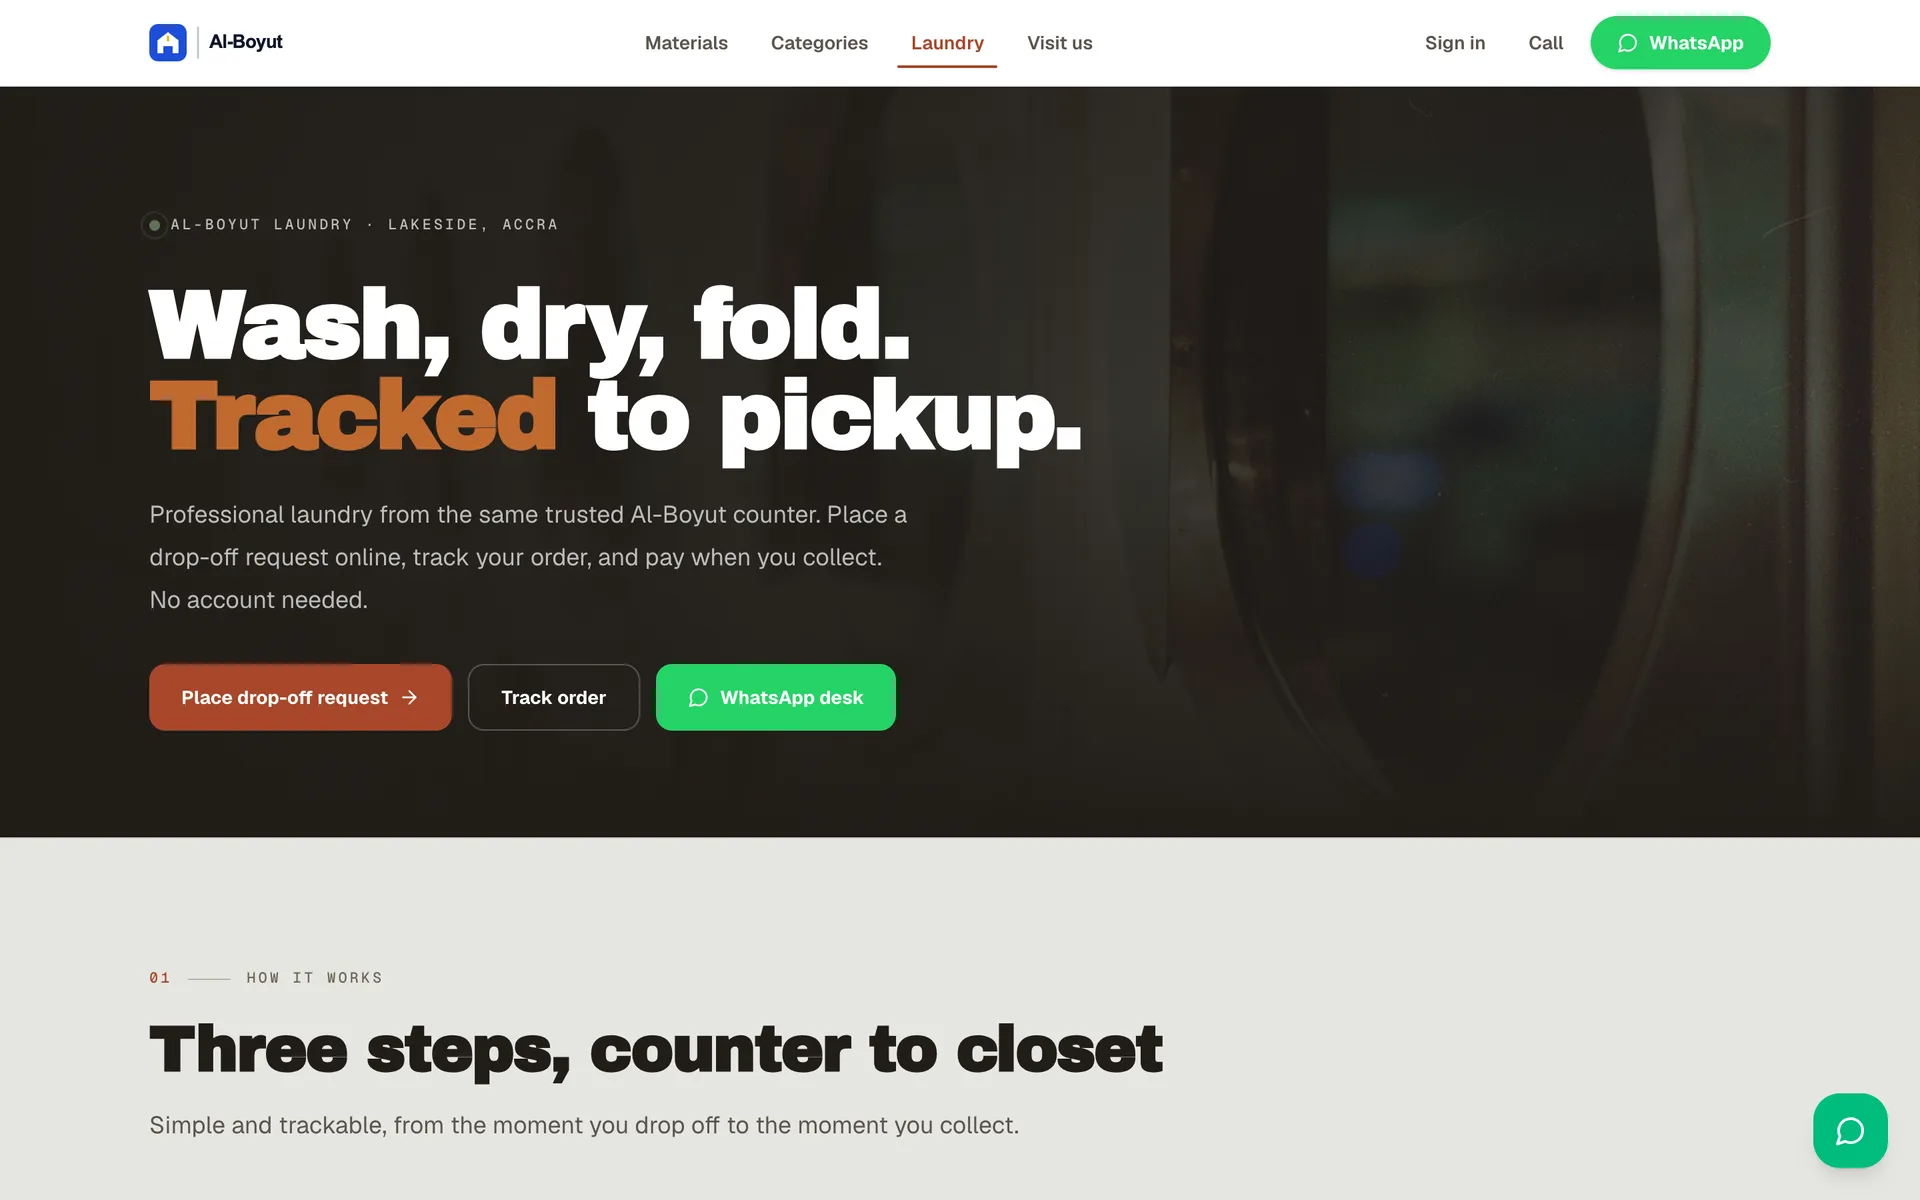
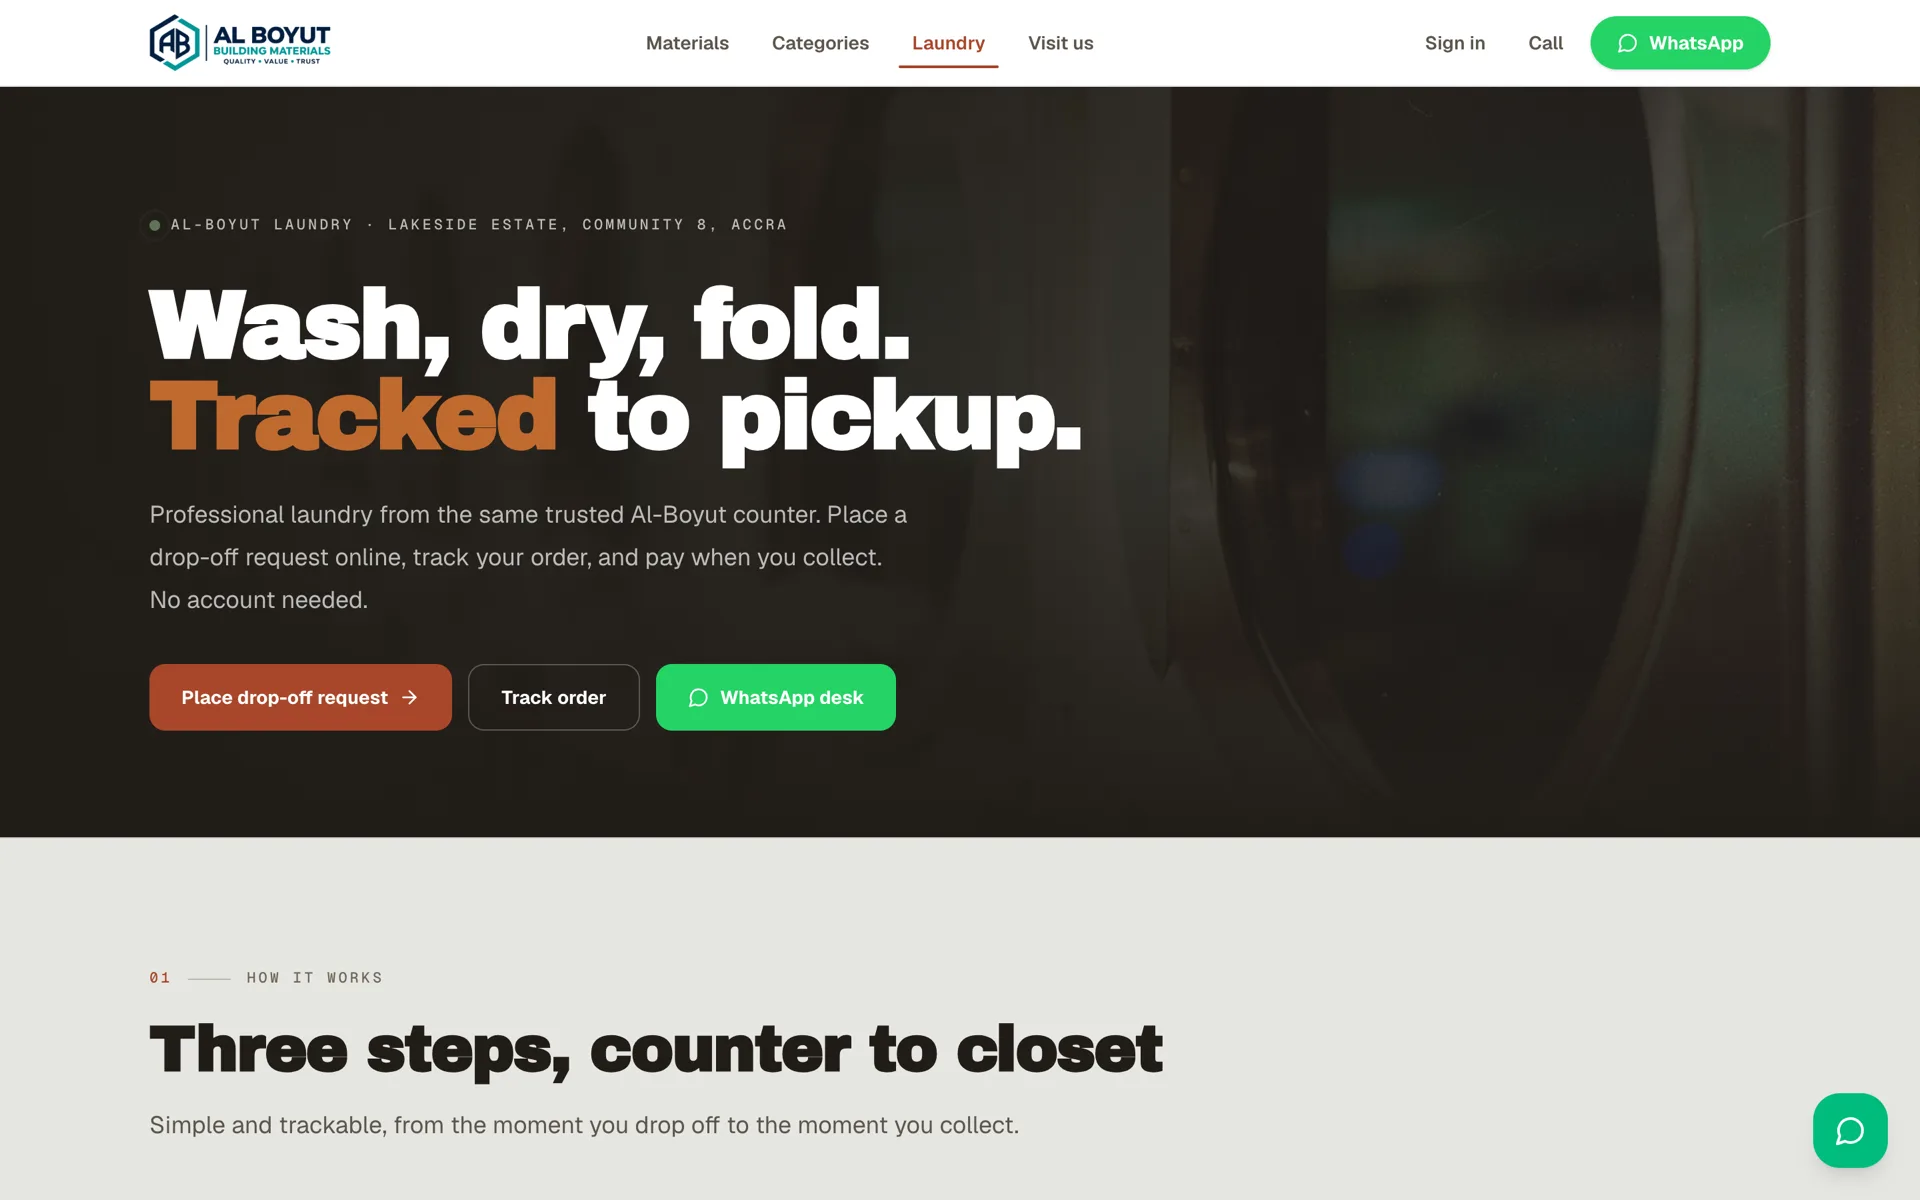
Promote Al-Boyut to a live, featured case study
Al-Boyut is live at alboyut.com, so unhide it, feature it, and point the
entry at the real domain instead of the testing deploy.

- Recapture storefront, catalogue, laundry and contact from the live site
  (1920w WebP); real shots now win over the coded AlBoyutPreview mockup.
- Rewrite the entry around the delivered scope: logo and identity system,
  storefront with a 450+ item catalogue and WhatsApp-first ordering, the
  admin/POS/supplier/laundry-ops surfaces, and a created + verified Google
  Business Profile. Adds a Challenge/Approach/Result study, metrics, and
  FR/AR tagline + description.
- Correct the accent to the terracotta actually shipping (#B4552F).
- Add Project.liveEmbeddable: alboyut.com sends X-Frame-Options: DENY, so
  the embedded Live tab would be blank. CaseStudy hides the toggle and
  iframe when it is false, keeping the "Visit the live site" link.
- Add the alboyut URL map to BrowserMockup.

diff --git a/src/lib/projects.ts b/src/lib/projects.ts
@@ -96,6 +96,8 @@ export interface Project {
   liveBaseUrl?: string;
   /** Map screen id → path (e.g. landing → "/", courses → "/courses"). Used with liveBaseUrl. */
   liveScreenPaths?: Record<string, string>;
+  /** Set false when the deploy sends X-Frame-Options/frame-ancestors DENY — hides the Live tab, keeps the outbound link. */
+  liveEmbeddable?: boolean;
 }
 
 export function projectSlug(p: Project): string {
@@ -302,48 +304,78 @@ export const projects: Project[] = [
     id: "alboyut",
     slug: "al-boyut",
     name: "Al-Boyut",
-    tagline: "Building Materials & Laundry Counter Platform",
+    tagline: "Builder's Merchant & Laundry — Brand, Site and Operations",
+    taglineFr: "Négoce de matériaux et blanchisserie — marque, site et opérations",
+    taglineAr: "تاجر مواد بناء ومغسلة — الهوية والموقع والتشغيل",
     year: "2026",
-    location: "Accra · Ghana",
+    location: "Lakeside Estate, Accra · Ghana",
     services: [
-      "Brand identity",
-      "Commerce design",
-      "POS & back office",
+      "Brand identity & logo system",
+      "Storefront & commerce design",
+      "POS, admin & laundry operations",
+      "Google Business Profile & local discovery",
       "Full-stack engineering",
     ],
     description:
-      "Storefront and operations platform for an Accra building-materials merchant with a laundry counter. WhatsApp-first ordering with counter pickup and delivery, a role-based back office, POS, supplier portal and laundry operations — carried by a laterite-and-steel identity rooted in Accra's red earth.",
-    role: "Product, brand & full-stack engineering",
+      "Everything customer-facing for an Accra builder's merchant that also runs a laundry counter: the logo and identity system, the live storefront at alboyut.com with a 450+ item catalogue and WhatsApp-first ordering, the staff POS, admin and laundry job board behind it, and a verified Google Business Profile that finally put the shop on Maps.",
+    descriptionFr:
+      "Tout le visible pour un négoce de matériaux d'Accra qui tient aussi une blanchisserie : le logo et le système d'identité, la boutique en ligne alboyut.com avec un catalogue de 450+ références et la commande par WhatsApp, la caisse, l'administration et le tableau de bord blanchisserie côté équipe, plus une fiche Google Business vérifiée qui met enfin la boutique sur Maps.",
+    descriptionAr:
+      "كل ما يراه العميل لتاجر مواد بناء في أكرا يدير أيضًا مغسلة: الشعار ونظام الهوية، والمتجر المباشر على alboyut.com بكتالوج يضم أكثر من 450 صنفًا وطلب عبر واتساب، ونقطة البيع والإدارة ولوحة تشغيل المغسلة للموظفين، إضافة إلى ملف تجاري موثّق على Google وضع المحل أخيرًا على الخرائط.",
+    study: {
+      challenge:
+        "Al-Boyut sold pipes, cement, roofing and tools over a counter on Lakeside Estate — and washed clothes at the same counter — with no logo, no website, and no Google Business Profile. Customers who searched for it found nothing on Maps, prices lived in WhatsApp threads, and the two businesses shared one till but no shared record.",
+      approach:
+        "We started with the identity: a hexagonal AB mark, wordmark and lockup set with reverse, mono and receipt variants, plus a written design system and brand voice so signage, receipts and screens speak the same language. That identity then carried a Next.js storefront — 450+ item catalogue, search and filters, 'Ask for price' via WhatsApp, counter pickup or Accra delivery — and the staff side behind it: admin, POS, supplier portal, and a laundry job board running RECEIVED → washing → drying → finishing → quality check → READY, where nothing is released with a balance owing. In parallel we claimed and verified the Google Business Profile, choosing truthful categories and holding name, address and phone identical to the site.",
+      result:
+        "One brand and one system across both businesses: a live site at alboyut.com, five working surfaces on a single Postgres source of truth, and a verified Business Profile so people searching for building materials on Lakeside Estate actually find the shop.",
+      metrics: [
+        { value: "450+", label: "Catalogue items live" },
+        { value: "5", label: "Operational surfaces" },
+        { value: "2", label: "Businesses, one system" },
+        { value: "Verified", label: "Google Business Profile" },
+      ],
+    },
+    role: "Brand, product & full-stack engineering",
     impact: [
-      "Gave a template-cloned storefront its own hard-wearing 'builder's merchant' identity — flat, committed, WCAG AA verified.",
-      "Modelled WhatsApp ordering, counter pickup and delivery around how Accra customers actually buy materials.",
-      "Built admin, POS, supplier and laundry-ops surfaces on one Drizzle/Postgres source of truth.",
+      "Designed the logo and identity system — mark, wordmark, lockups, reverse and receipt variants — plus a written design system and brand voice.",
+      "Built the live storefront at alboyut.com: 450+ item catalogue, search and filters, WhatsApp-first ordering, counter pickup or delivery.",
+      "Built admin, POS, supplier portal and a laundry job board on one Drizzle/Postgres source of truth — QC before release, no clothes leave with a balance owing.",
+      "Created and verified the Google Business Profile, with categories and NAP details held identical to the site.",
     ],
     outcomes: [
+      { value: "450+", label: "Catalogue items live" },
       { value: "5", label: "Operational surfaces" },
-      { value: "2", label: "Businesses, one system" },
-      { value: "AA", label: "Contrast verified" },
+      { value: "Verified", label: "Google Business Profile" },
     ],
     category: "ecommerce",
-    categoryLabel: "E-Commerce · Operations",
+    categoryLabel: "E-Commerce · Brand & Operations",
     stack: ["Next.js", "TypeScript", "Drizzle", "PostgreSQL", "Better Auth", "Vercel Blob"],
-    accentColor: "#A8462A",
-    accentGlow: "rgba(168, 70, 42, 0.16)",
-    featured: false,
-    hidden: true,
+    accentColor: "#B4552F",
+    accentGlow: "rgba(180, 85, 47, 0.16)",
+    featured: true,
     imagePath: "/previews/alboyut/landing.webp",
     screens: [
       { id: "landing", label: "Storefront" },
-      { id: "products", label: "Products" },
+      { id: "products", label: "Catalogue" },
       { id: "laundry", label: "Laundry" },
+      { id: "contact", label: "Visit us" },
     ],
     screenImages: {
       landing: "/previews/alboyut/landing.webp",
       products: "/previews/alboyut/products.webp",
       laundry: "/previews/alboyut/laundry.webp",
+      contact: "/previews/alboyut/contact.webp",
     },
-    liveBaseUrl: "https://testing-al-boyut.vercel.app",
-    liveScreenPaths: { landing: "/", products: "/products", laundry: "/laundry" },
+    liveBaseUrl: "https://alboyut.com",
+    liveScreenPaths: {
+      landing: "/",
+      products: "/products",
+      laundry: "/laundry",
+      contact: "/contact",
+    },
+    // alboyut.com sends X-Frame-Options: DENY — the embedded live tab would be blank.
+    liveEmbeddable: false,
   },
   {
     id: "enterprise-erp",

diff --git a/src/app/work/[slug]/CaseStudy.tsx b/src/app/work/[slug]/CaseStudy.tsx
@@ -33,6 +33,8 @@ export default function CaseStudy({ project, next }: Props) {
   const locale = useLocale();
   const { tagline, description } = localizedProject(project, locale);
   const [mode, setMode] = useState<Mode>("simulated");
+  /** Some deploys send X-Frame-Options: DENY — no live tab, outbound link only. */
+  const canEmbedLive = !!project.liveBaseUrl && project.liveEmbeddable !== false;
 
   return (
     <>
@@ -122,7 +124,7 @@ export default function CaseStudy({ project, next }: Props) {
           <div className="max-w-[1280px] mx-auto">
             {/* Mode toggle */}
             <div className="flex items-center justify-between gap-4 flex-wrap mb-4">
-              {project.liveBaseUrl ? (
+              {canEmbedLive ? (
                 <div
                   className="inline-flex p-1 rounded-full border border-[var(--line)]"
                   style={{ background: "rgba(255,255,255,0.02)" }}
@@ -148,7 +150,7 @@ export default function CaseStudy({ project, next }: Props) {
                 </span>
               )}
 
-              {mode === "live" && project.liveBaseUrl && (
+              {mode === "live" && canEmbedLive && (
                 <a
                   href={buildLiveUrl(project, screen)}
                   target="_blank"
@@ -164,7 +166,7 @@ export default function CaseStudy({ project, next }: Props) {
             <Reveal>
               <div className="w-full">
                 <AnimatePresence mode="wait">
-                  {mode === "live" && project.liveBaseUrl ? (
+                  {mode === "live" && canEmbedLive ? (
                     <motion.div
                       key="live"
                       initial={{ opacity: 0 }}

diff --git a/src/components/BrowserMockup.tsx b/src/components/BrowserMockup.tsx
@@ -99,6 +99,12 @@ const urlMap: Record<string, Record<string, string>> = {
     inventory: "rockmotionautogroup.com/inventory",
     process: "rockmotionautogroup.com/process",
   },
+  alboyut: {
+    landing: "alboyut.com",
+    products: "alboyut.com/products",
+    laundry: "alboyut.com/laundry",
+    contact: "alboyut.com/contact",
+  },
   jireh: {
     landing: "jirehnaturalfoods.vercel.app",
     menu: "backoffice.jireh.app/admin/menu",
